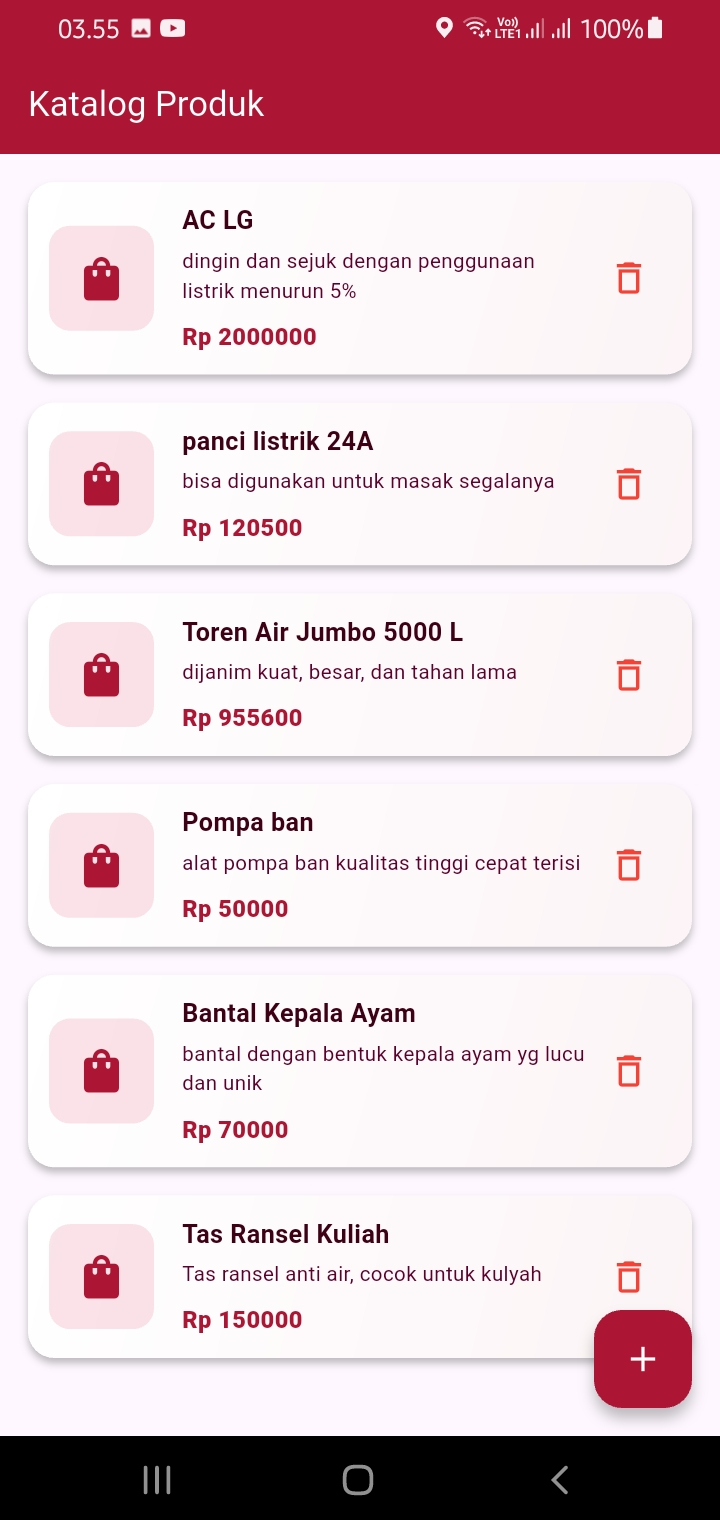
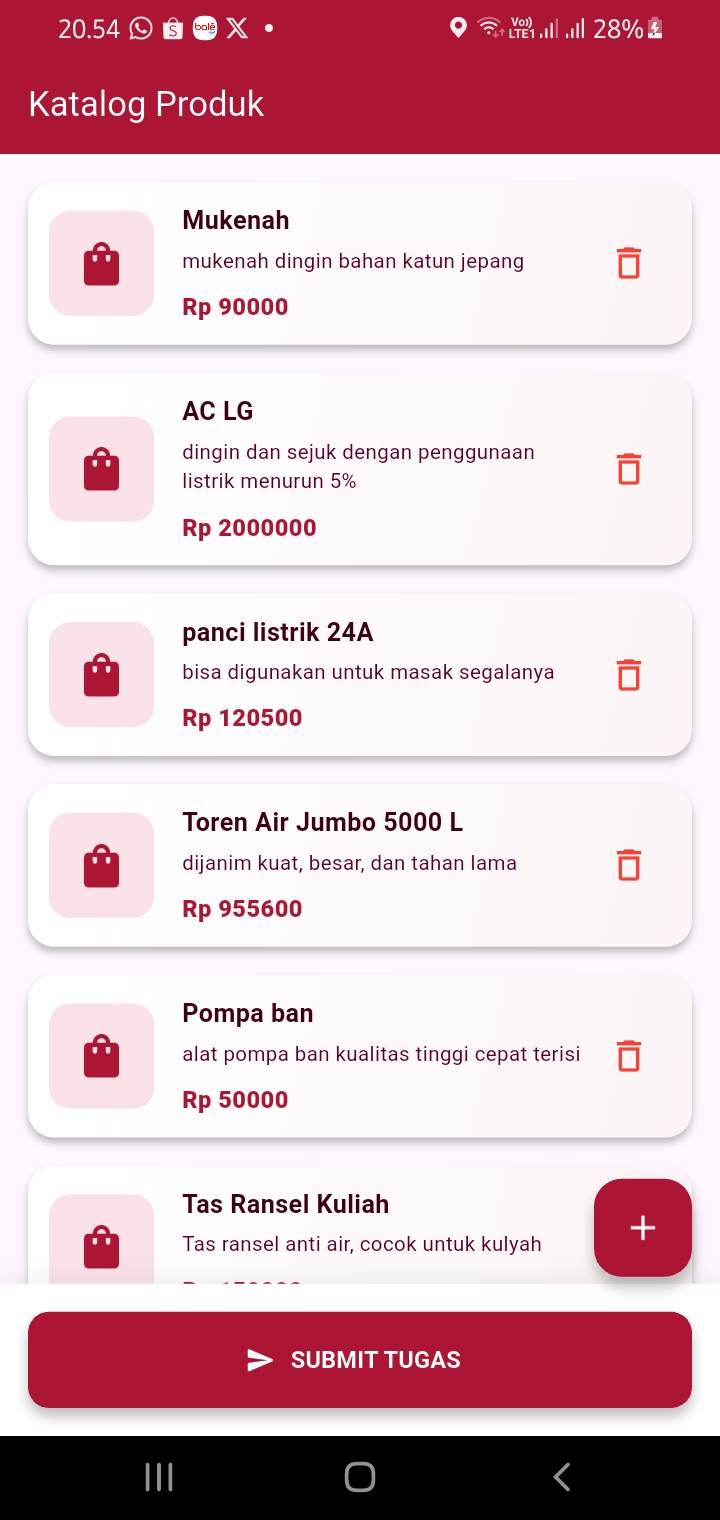
update ui button submitt alhamdullilah

diff --git a/lib/catalog_page.dart b/lib/catalog_page.dart
@@ -4,6 +4,7 @@ import 'package:http/http.dart' as http;
 import 'package:flutter_secure_storage/flutter_secure_storage.dart';
 import 'product_model.dart';
 import 'add_product_page.dart';
+import 'submit_page.dart';
 
 class CatalogPage extends StatefulWidget {
   const CatalogPage({super.key});
@@ -66,119 +67,154 @@ class _CatalogPageState extends State<CatalogPage> {
       ),
       body: _isLoading
           ? const Center(child: CircularProgressIndicator())
-          : _products.isEmpty
-              ? const Center(child: Text("Belum ada produk. Tambah produk dulu yh!"))
-              : ListView.builder(
-                  padding: const EdgeInsets.all(16),
-                  itemCount: _products.length,
-                  itemBuilder: (context, index) {
-                    final item = _products[index];
-                    return Card(
-                      elevation: 3,
-                      margin: const EdgeInsets.only(bottom: 16),
-                      shape: RoundedRectangleBorder(borderRadius: BorderRadius.circular(15)),
-                      child: Container(
-                        decoration: BoxDecoration(
-                          borderRadius: BorderRadius.circular(15),
-                          gradient: LinearGradient(
-                            colors: [Colors.white, const Color(0xFFFCF4F6)],
-                            begin: Alignment.topLeft,
-                            end: Alignment.bottomRight,
-                          ),
-                        ),
-                        child: Padding(
-                          padding: const EdgeInsets.all(12.0),
-                          child: Row(
-                            children: [
-                              Container(
-                                width: 60,
-                                height: 60,
+          : Column(
+              children: [
+                Expanded(
+                  child: _products.isEmpty
+                      ? const Center(child: Text("Belum ada produk. Tambah produk dulu yh!"))
+                      : ListView.builder(
+                          padding: const EdgeInsets.all(16),
+                          itemCount: _products.length,
+                          itemBuilder: (context, index) {
+                            final item = _products[index];
+                            return Card(
+                              elevation: 3,
+                              margin: const EdgeInsets.only(bottom: 16),
+                              shape: RoundedRectangleBorder(borderRadius: BorderRadius.circular(15)),
+                              child: Container(
                                 decoration: BoxDecoration(
-                                  color: deepBlush.withValues(alpha: 0.2),
-                                  borderRadius: BorderRadius.circular(12),
+                                  borderRadius: BorderRadius.circular(15),
+                                  gradient: const LinearGradient(
+                                    colors: [Colors.white, Color(0xFFFCF4F6)],
+                                    begin: Alignment.topLeft,
+                                    end: Alignment.bottomRight,
+                                  ),
                                 ),
-                                child: Icon(Icons.shopping_bag, color: cardinal, size: 30),
-                              ),
-                              const SizedBox(width: 16),
-                              
-                              Expanded(
-                                child: Column(
-                                  crossAxisAlignment: CrossAxisAlignment.start,
-                                  children: [
-                                    Text(
-                                      item.name,
-                                      style: TextStyle(
-                                        color: rusticRed,
-                                        fontWeight: FontWeight.bold,
-                                        fontSize: 16,
+                                child: Padding(
+                                  padding: const EdgeInsets.all(12.0),
+                                  child: Row(
+                                    children: [
+                                      Container(
+                                        width: 60,
+                                        height: 60,
+                                        decoration: BoxDecoration(
+                                          color: deepBlush.withValues(alpha: 0.2),
+                                          borderRadius: BorderRadius.circular(12),
+                                        ),
+                                        child: Icon(Icons.shopping_bag, color: cardinal, size: 30),
                                       ),
-                                    ),
-                                    const SizedBox(height: 4),
-                                    Text(
-                                      item.description,
-                                      style: TextStyle(color: tyrianPurple, fontSize: 13),
-                                      maxLines: 2,
-                                      overflow: TextOverflow.ellipsis,
-                                    ),
-                                    const SizedBox(height: 8),
-                                    Text(
-                                      "Rp ${item.price.toStringAsFixed(0)}",
-                                      style: TextStyle(
-                                        color: cardinal,
-                                        fontWeight: FontWeight.w900,
-                                        fontSize: 15,
+                                      const SizedBox(width: 16),
+                                      Expanded(
+                                        child: Column(
+                                          crossAxisAlignment: CrossAxisAlignment.start,
+                                          children: [
+                                            Text(
+                                              item.name,
+                                              style: TextStyle(color: rusticRed, fontWeight: FontWeight.bold, fontSize: 16),
+                                            ),
+                                            const SizedBox(height: 4),
+                                            Text(
+                                              item.description,
+                                              style: TextStyle(color: tyrianPurple, fontSize: 13),
+                                              maxLines: 2,
+                                              overflow: TextOverflow.ellipsis,
+                                            ),
+                                            const SizedBox(height: 8),
+                                            Text(
+                                              "Rp ${item.price.toStringAsFixed(0)}",
+                                              style: TextStyle(color: cardinal, fontWeight: FontWeight.w900, fontSize: 15),
+                                            ),
+                                          ],
+                                        ),
                                       ),
-                                    ),
-                                  ],
+                                      IconButton(
+                                        icon: const Icon(Icons.delete_outline, color: Colors.red),
+                                        onPressed: () {
+                                          showDialog(
+                                            context: context,
+                                            builder: (context) => AlertDialog(
+                                              title: const Text('Yakin hapus produk ini?🥺'),
+                                              content: const Text('Data akan dihapus dari katalogmu lhoo.'),
+                                              actions: [
+                                                TextButton(
+                                                  onPressed: () => Navigator.pop(context),
+                                                  child: const Text('Batal'),
+                                                ),
+                                                TextButton(
+                                                  onPressed: () {
+                                                    Navigator.pop(context);
+                                                    _deleteProduct(item.id);
+                                                  },
+                                                  child: const Text('Hapus', style: TextStyle(color: Colors.red)),
+                                                ),
+                                              ],
+                                            ),
+                                          );
+                                        },
+                                      ),
+                                    ],
+                                  ),
                                 ),
                               ),
-
-                              IconButton(
-                                icon: const Icon(Icons.delete_outline, color: Colors.red),
-                                onPressed: () {
-                                  showDialog(
-                                    context: context,
-                                    builder: (context) => AlertDialog(
-                                      title: const Text('Yakin kamu mau hapus produk ini?🥺'),
-                                      content: const Text('Data ini akan dihapus dari katalogmu yawww.'),
-                                      actions: [
-                                        TextButton(
-                                          onPressed: () => Navigator.pop(context),
-                                          child: const Text('Batal'),
-                                        ),
-                                        TextButton(
-                                          onPressed: () {
-                                            Navigator.pop(context);
-                                            _deleteProduct(item.id);
-                                          },
-                                          child: const Text('Hapus', style: TextStyle(color: Colors.red)),
-                                        ),
-                                      ],
-                                    ),
-                                  );
-                                },
-                              ),
-                            ],
-                          ),
+                            );
+                          },
                         ),
+                ),
+                Container(
+                  padding: const EdgeInsets.all(16),
+                  decoration: BoxDecoration(
+                    color: Colors.white,
+                    boxShadow: [
+                      BoxShadow(
+                        color: Colors.black.withValues(alpha: 0.05),
+                        blurRadius: 10,
+                        offset: const Offset(0, -5),
                       ),
-                    );
-                  },
+                    ],
+                  ),
+                  child: SizedBox(
+                    width: double.infinity,
+                    height: 55,
+                    child: ElevatedButton.icon(
+                      style: ElevatedButton.styleFrom(
+                        backgroundColor: cardinal,
+                        foregroundColor: Colors.white,
+                        shape: RoundedRectangleBorder(borderRadius: BorderRadius.circular(12)),
+                        elevation: 5,
+                      ),
+                      icon: const Icon(Icons.send_rounded),
+                      label: const Text(
+                        'SUBMIT TUGAS',
+                        style: TextStyle(fontWeight: FontWeight.bold, fontSize: 15),
+                      ),
+                      onPressed: () {
+                        Navigator.push(
+                          context,
+                          MaterialPageRoute(builder: (context) => const SubmitPage()),
+                        );
+                      },
+                    ),
+                  ),
                 ),
-                floatingActionButton: FloatingActionButton(
-                  backgroundColor: const Color(0xFFAC1634),
-                  child: const Icon(Icons.add, color: Colors.white),
-                  onPressed: () async {
-                    final result = await Navigator.push(
-                      context,
-                      MaterialPageRoute(builder: (context) => AddProductPage()),
-                    );
-                    
-                    if (result == true) {
-                      _fetchProducts(); 
-                    }
-                  },
-                ),
+              ],
+            ),
+      floatingActionButtonLocation: FloatingActionButtonLocation.endFloat,
+      floatingActionButton: Padding(
+        padding: const EdgeInsets.only(bottom: 75.0),
+        child: FloatingActionButton(
+          backgroundColor: cardinal,
+          child: const Icon(Icons.add, color: Colors.white),
+          onPressed: () async {
+            final result = await Navigator.push(
+              context,
+              MaterialPageRoute(builder: (context) => AddProductPage()),
+            );
+            if (result == true) {
+              _fetchProducts();
+            }
+          },
+        ),
+      ),
     );
   }
 

diff --git a/lib/submit_page.dart b/lib/submit_page.dart
@@ -1,0 +1,93 @@
+import 'dart:convert';
+import 'package:flutter/material.dart';
+import 'package:http/http.dart' as http;
+import 'package:flutter_secure_storage/flutter_secure_storage.dart';
+
+class SubmitPage extends StatefulWidget {
+  const SubmitPage({super.key});
+
+  @override
+  State<SubmitPage> createState() => _SubmitPageState();
+}
+
+class _SubmitPageState extends State<SubmitPage> {
+  final TextEditingController _nameController = TextEditingController();
+  final TextEditingController _priceController = TextEditingController();
+  final TextEditingController _descController = TextEditingController();
+  final TextEditingController _githubController = TextEditingController(text: "https://github.com/anjeliadwichy/tugas_pbm_1.git");
+  
+  final _storage = const FlutterSecureStorage();
+  bool _isLoading = false;
+  final Color cardinal = const Color(0xFFAC1634);
+
+  Future<void> _submitTugas() async {
+    setState(() => _isLoading = true);
+    final token = await _storage.read(key: 'auth_token');
+    final url = Uri.parse('https://task.itprojects.web.id/api/products/submit');
+
+    try {
+      final response = await http.post(
+        url,
+        headers: {
+          'Authorization': 'Bearer $token',
+          'Content-Type': 'application/json',
+          'Accept': 'application/json',
+        },
+        body: jsonEncode({
+          'name': _nameController.text,
+          'price': int.tryParse(_priceController.text) ?? 0,
+          'description': _descController.text,
+          'github_url': _githubController.text,
+        }),
+      );
+
+      if (response.statusCode == 201 || response.statusCode == 200) {
+        if (mounted) {
+          ScaffoldMessenger.of(context).showSnackBar(
+            const SnackBar(content: Text('Submit tugas berhasil!'), backgroundColor: Colors.green),
+          );
+          Navigator.pop(context);
+        }
+      } else {
+        if (mounted) {
+          ScaffoldMessenger.of(context).showSnackBar(
+            SnackBar(content: Text('Gagal: ${response.body}'), backgroundColor: Colors.red),
+          );
+        }
+      }
+    } catch (e) {
+      debugPrint("Error: $e");
+    } finally {
+      setState(() => _isLoading = false);
+    }
+  }
+
+  @override
+  Widget build(BuildContext context) {
+    return Scaffold(
+      appBar: AppBar(title: const Text('Submit Tugas'), backgroundColor: cardinal, foregroundColor: Colors.white),
+      body: SingleChildScrollView(
+        padding: const EdgeInsets.all(20.0),
+        child: Column(
+          children: [
+            const Text("Kirim produk final dan link GitHub", style: TextStyle(fontWeight: FontWeight.bold)),
+            const SizedBox(height: 20),
+            TextField(controller: _nameController, decoration: const InputDecoration(labelText: 'Nama Produk')),
+            TextField(controller: _priceController, decoration: const InputDecoration(labelText: 'Harga'), keyboardType: TextInputType.number),
+            TextField(controller: _descController, decoration: const InputDecoration(labelText: 'Deskripsi')),
+            TextField(controller: _githubController, decoration: const InputDecoration(labelText: 'Link GitHub')),
+            const SizedBox(height: 30),
+            SizedBox(
+              width: double.infinity,
+              child: ElevatedButton(
+                style: ElevatedButton.styleFrom(backgroundColor: cardinal, foregroundColor: Colors.white),
+                onPressed: _isLoading ? null : _submitTugas,
+                child: _isLoading ? const CircularProgressIndicator(color: Colors.white) : const Text('SUBMIT TUGAS'),
+              ),
+            ),
+          ],
+        ),
+      ),
+    );
+  }
+}
